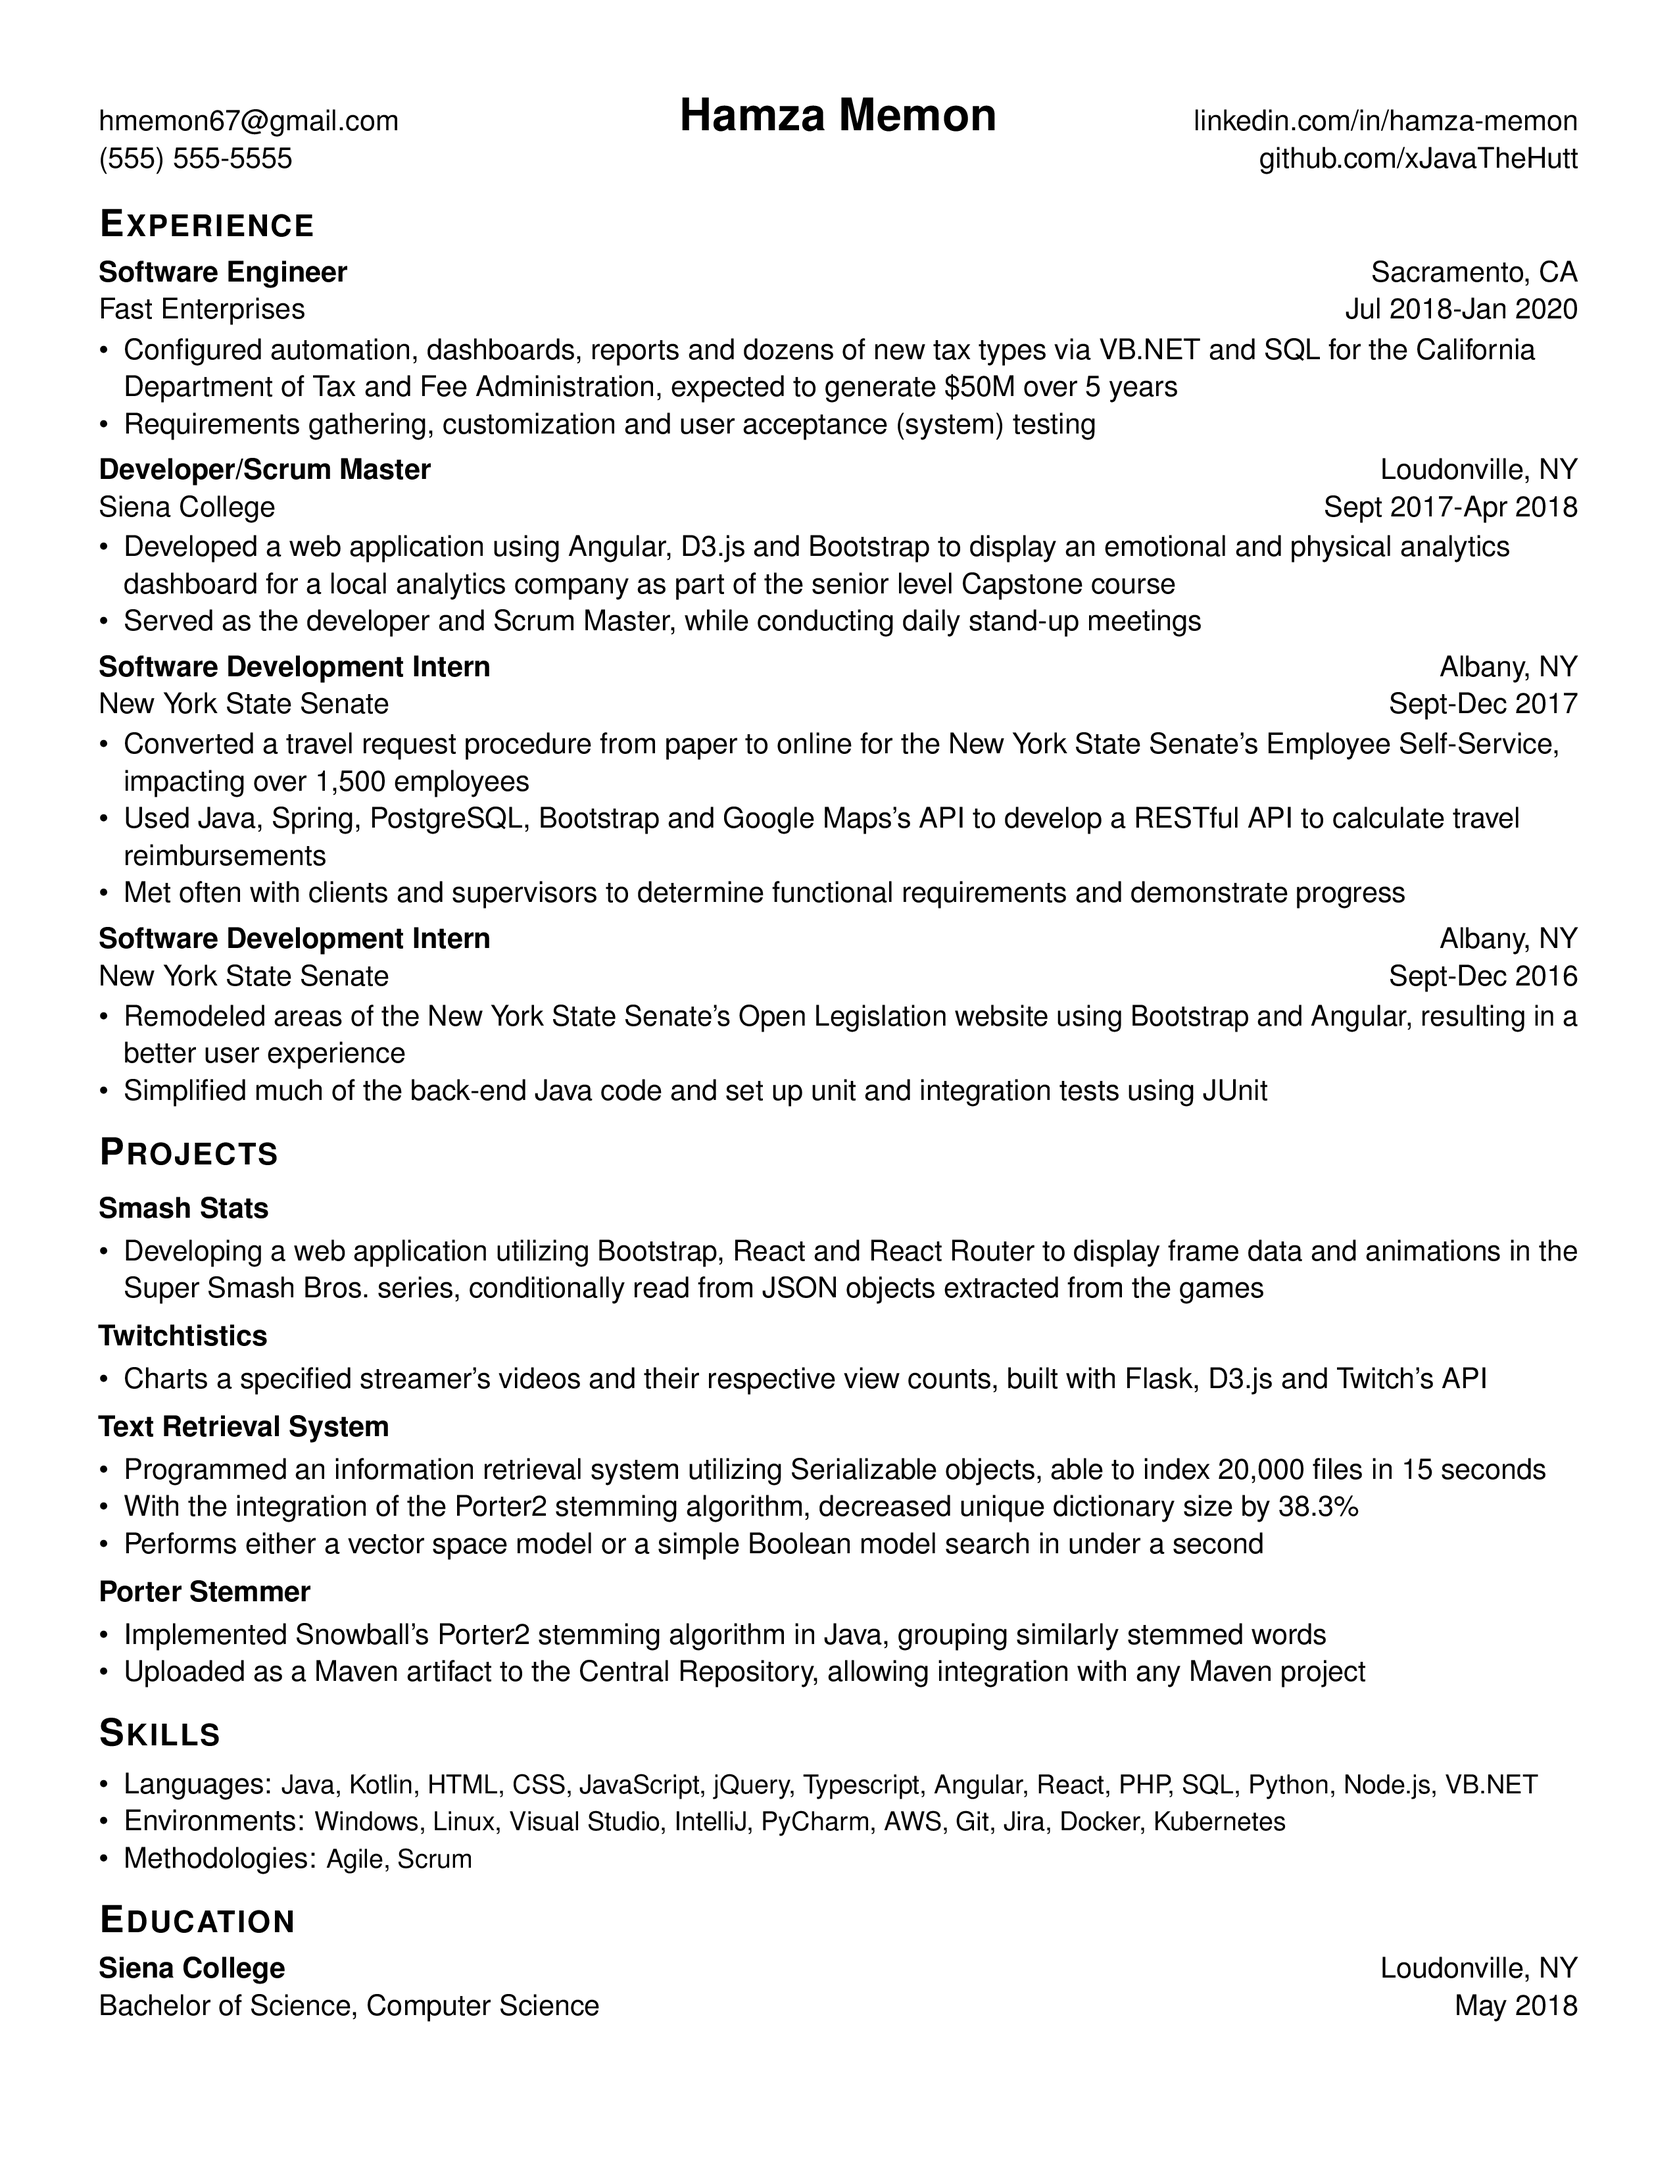
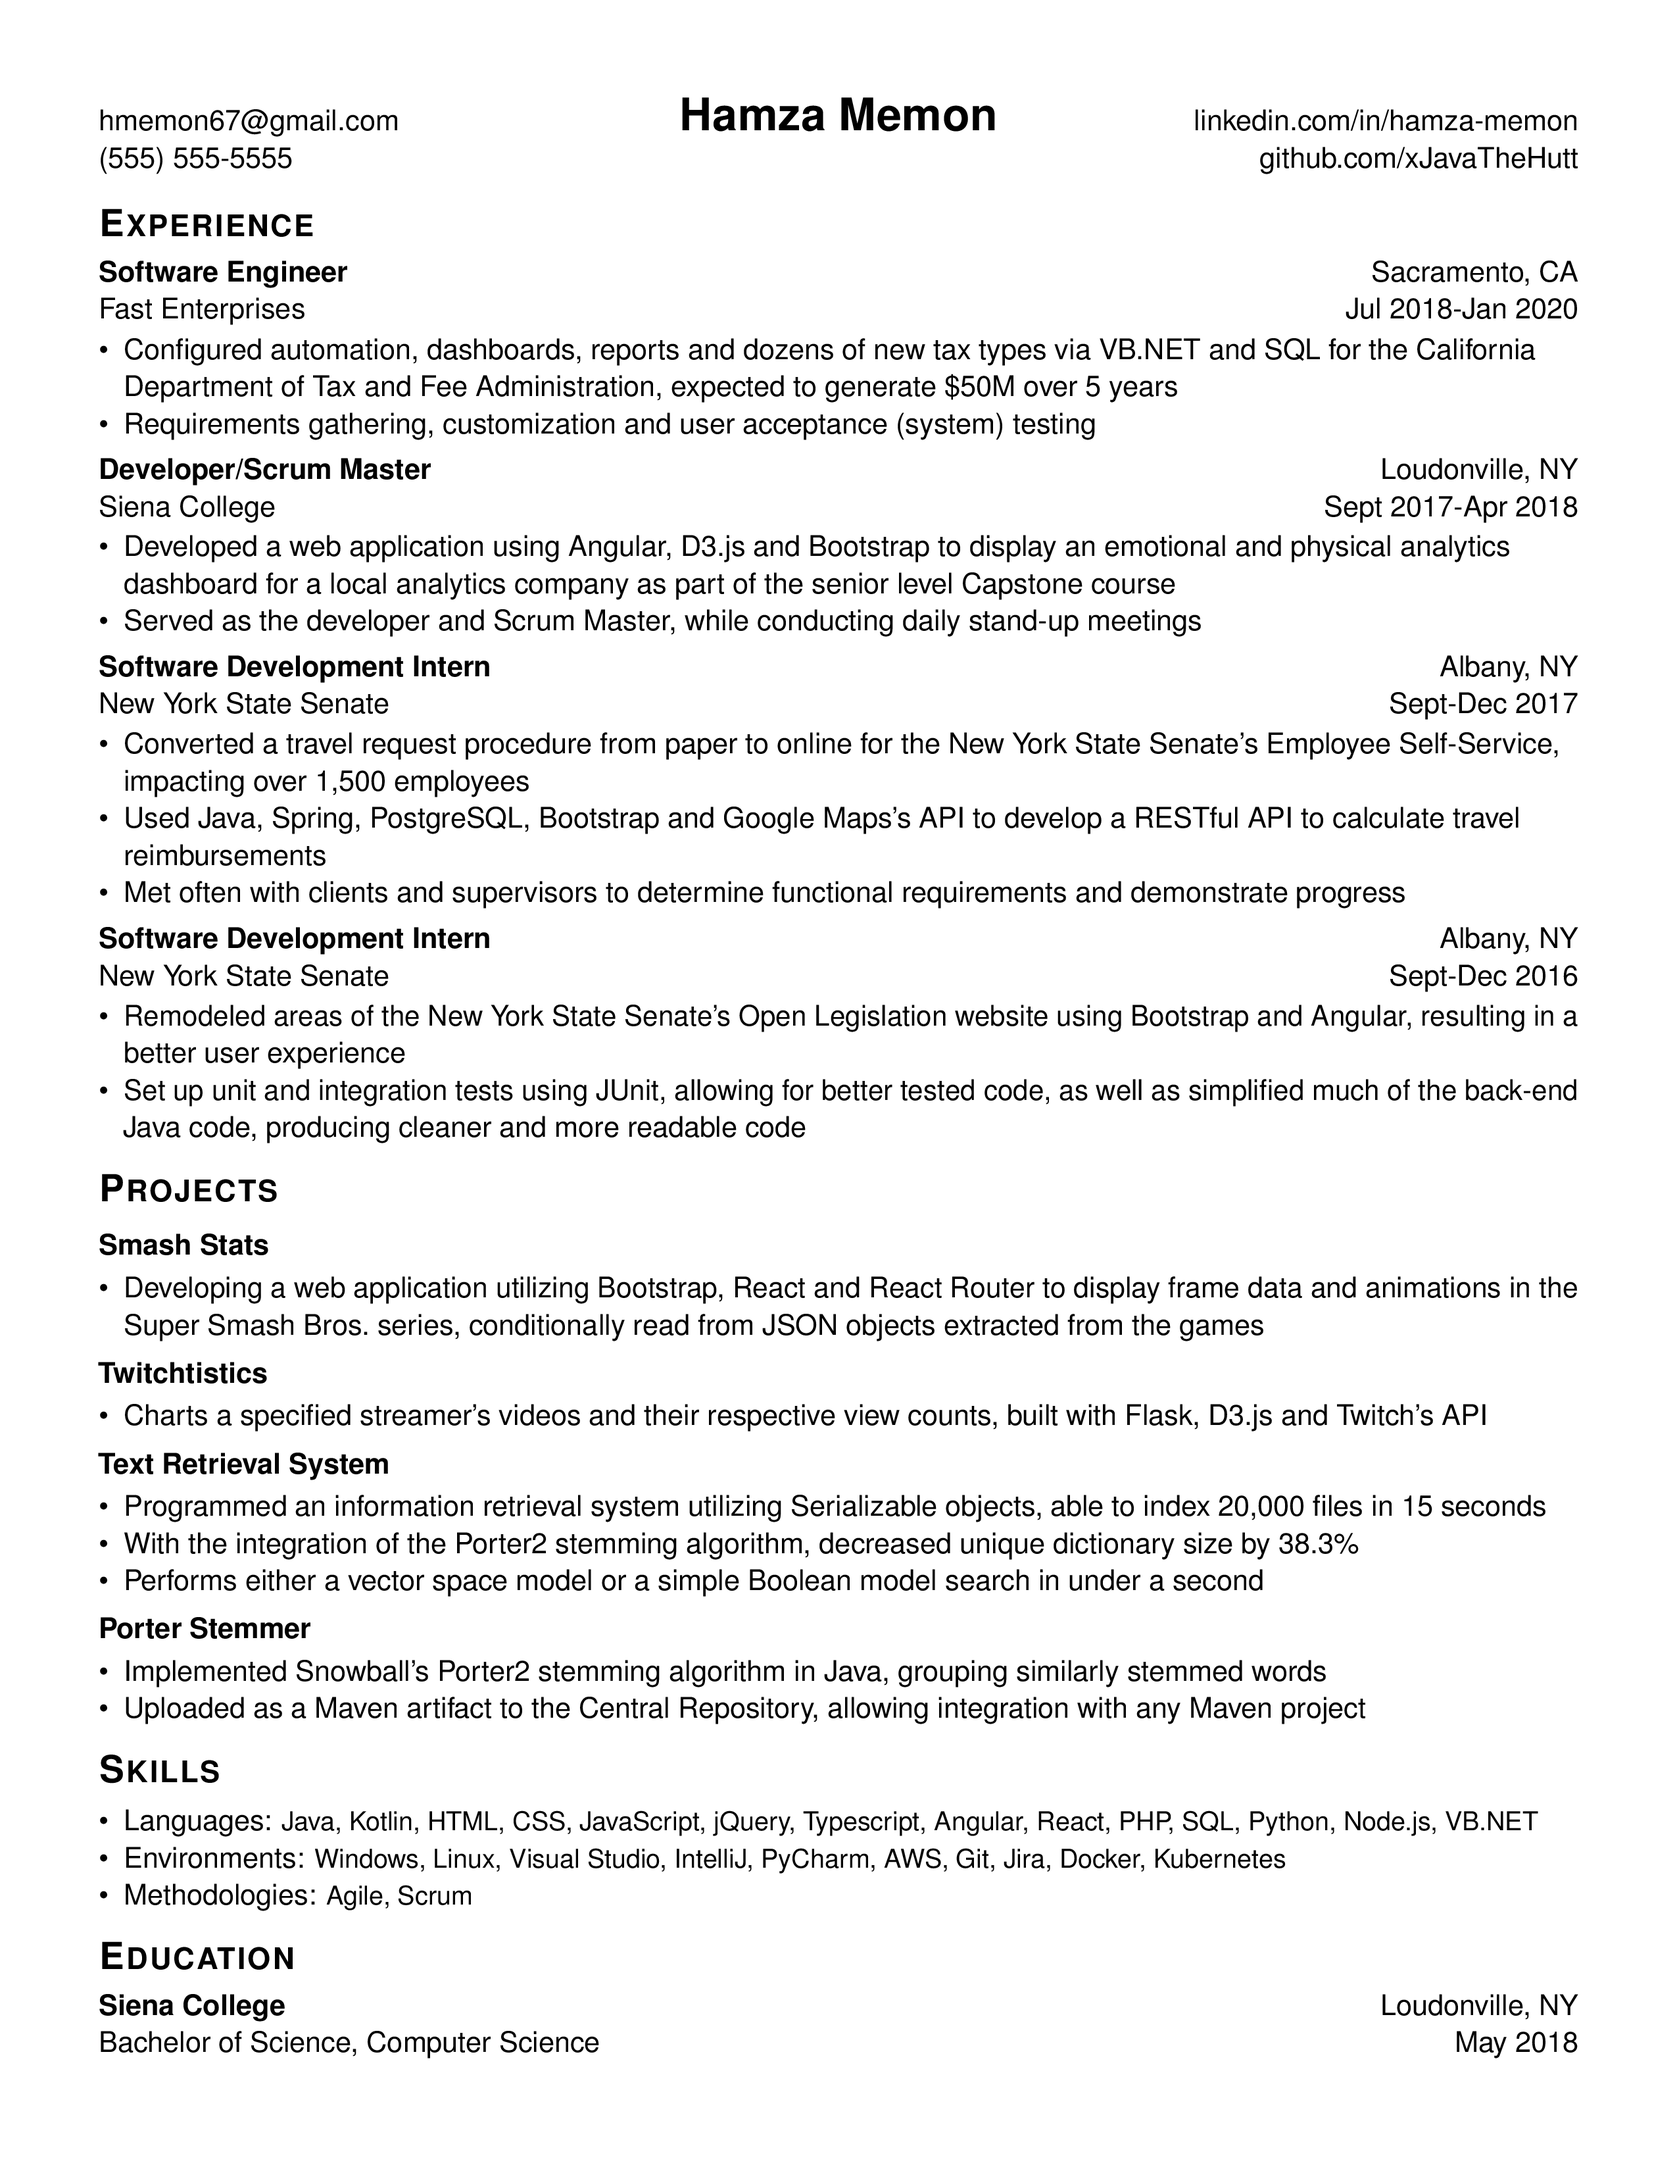
:pencil: Updated bullet point language.

Changed region(s): [[0.062, 0.4994, 0.9294, 0.9676], [0.2169, 0.9052, 0.3408, 0.9676], [0.8365, 0.9052, 0.9294, 0.9676]]

diff --git a/resume.tex b/resume.tex
@@ -49,8 +49,8 @@
     \begin{itemize}
       \item{Remodeled areas of the New York State Senate's Open Legislation website using Bootstrap
         and Angular, resulting in a better user experience}
-      \item{Simplified much of the back-end Java code and set up unit and integration tests using
-        JUnit}
+      \item{Set up unit and integration tests using JUnit, allowing for better tested code, as well
+        as simplified much of the back-end Java code, producing cleaner and more readable code}
     \end{itemize}
   \end{cvsubsection}
 \end{cvsection}
